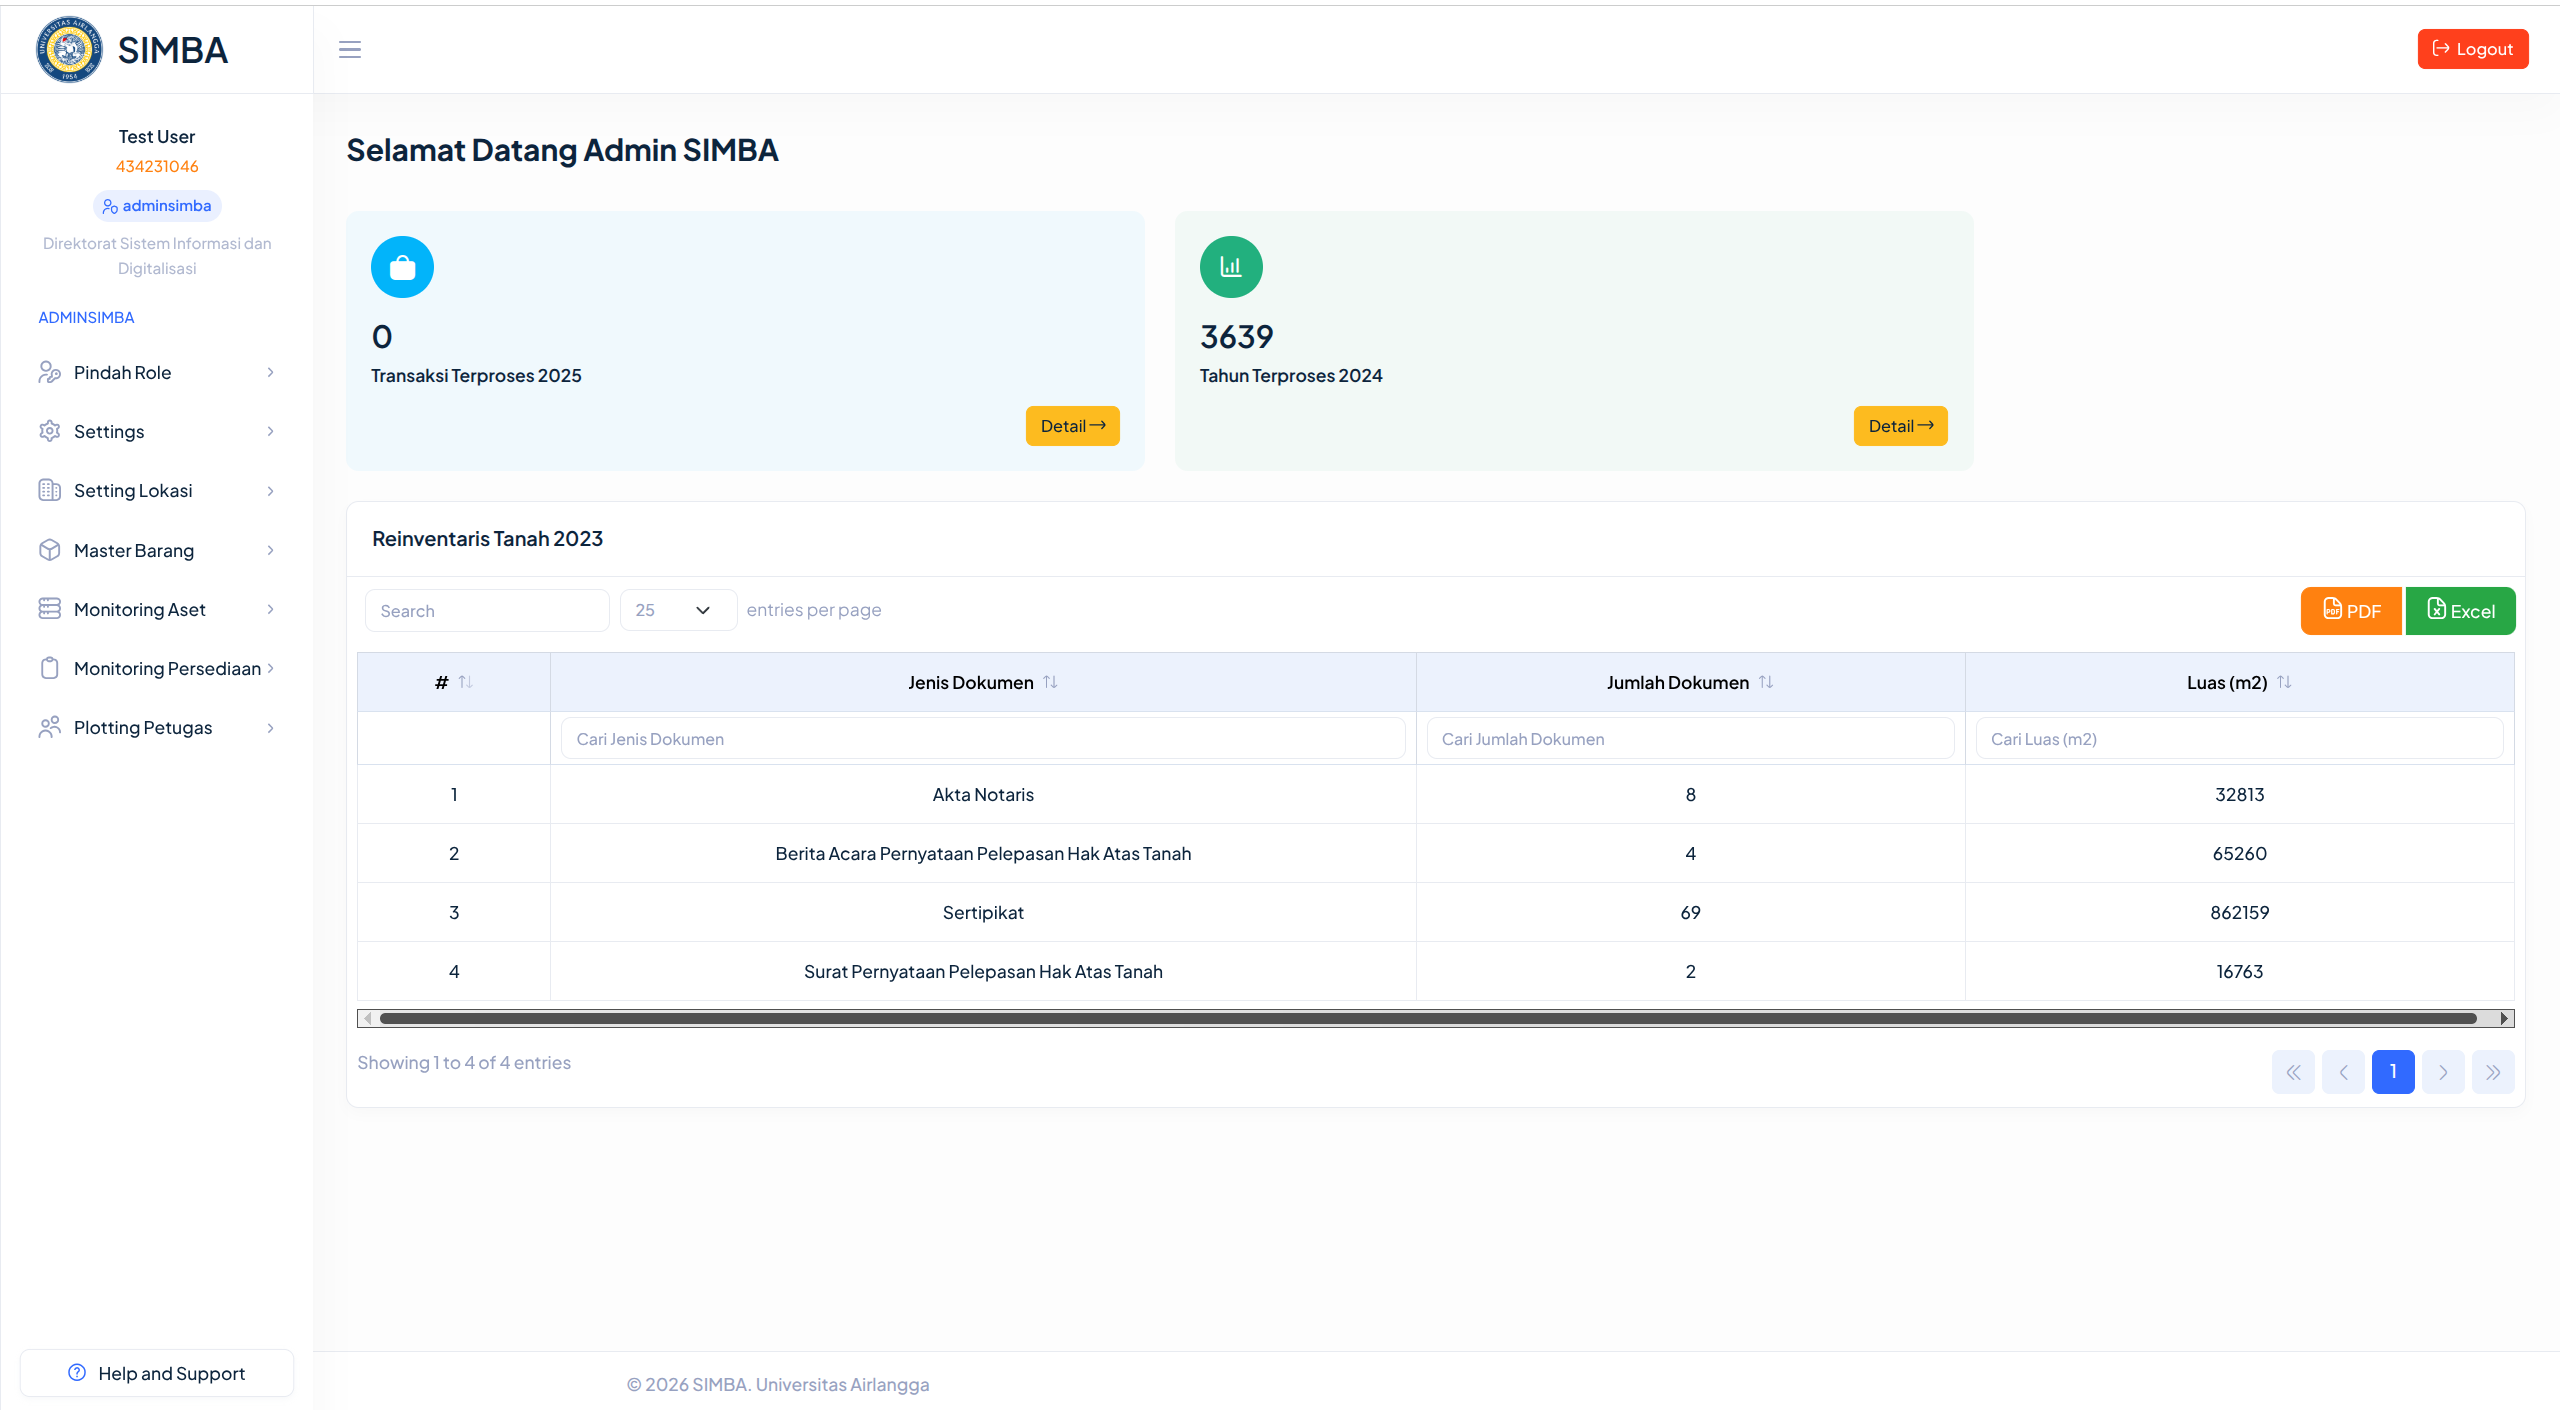
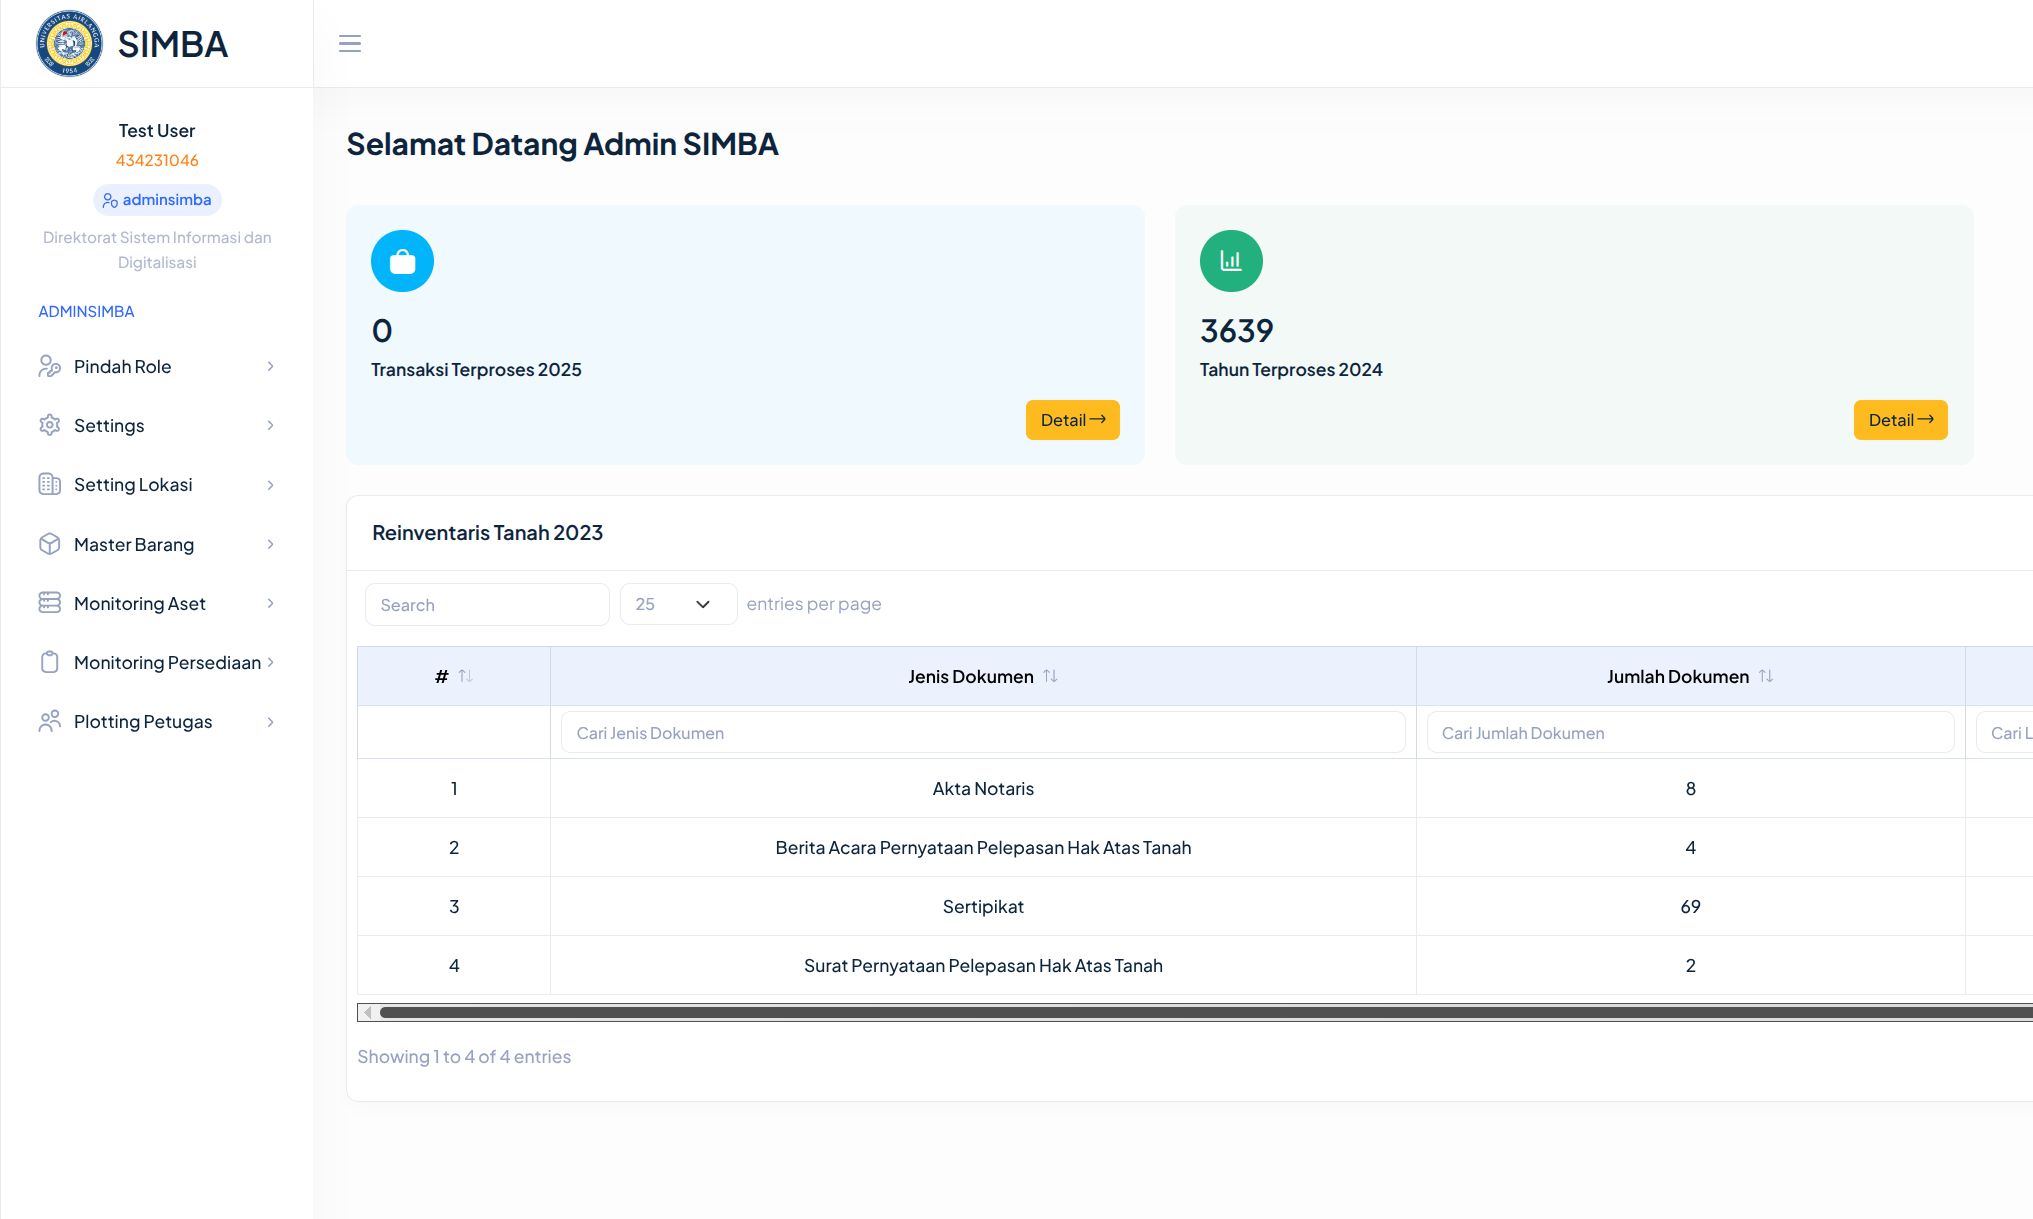
update hero stats and replace simba cover image
Adjust project/client counts to accurate figures (15+/10+).
Swap simba-cover.png for updated version, remove unused SIMBA.png.

diff --git a/src/app/page.tsx b/src/app/page.tsx
@@ -256,8 +256,8 @@ export default function Home() {
             }}
           >
             {[
-              { num: "10", suffix: "+", label: "Projects Shipped" },
-              { num: "20", suffix: "+", label: "Happy Clients" },
+              { num: "15", suffix: "+", label: "Projects Shipped" },
+              { num: "10", suffix: "+", label: "Happy Clients" },
               { num: "3", suffix: "y", label: "Years of Journey" },
             ].map((s, i) => (
               <div key={s.label} style={{ display: "contents" }}>
